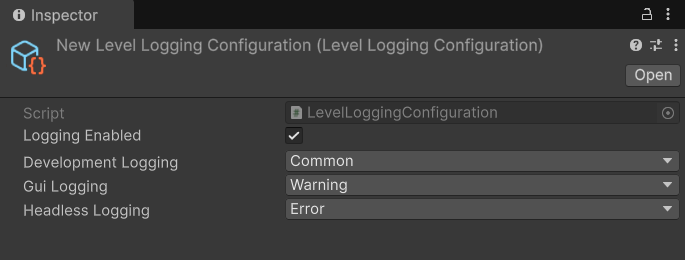
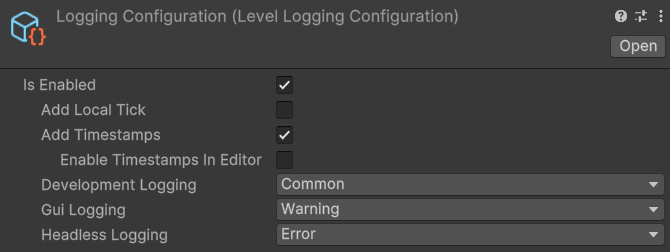
update logging level configuration

diff --git a/fishnet-building-blocks/scriptableobjects/levelloggingconfiguration.md b/fishnet-building-blocks/scriptableobjects/levelloggingconfiguration.md
@@ -14,9 +14,21 @@ The **Level Logging Configuration** scriptable object simply allows you to custo
 
 <figure><img src="../../.gitbook/assets/level-logging-configuration.png" alt=""><figcaption><p>Default Settings</p></figcaption></figure>
 
-### :gear: **Logging Enabled**
+### :gear: **Is Enabled**
 
 > This is simply a toggle to enable and disable all of Fish-Networking's logs.
+
+### :gear: Add Local Tick
+
+> This option allows you to prepend the network's local tick when log was made onto the log message. This can be quite handy for precise debugging.
+
+### :gear: **Add Timestamps**
+
+> This allows you to prepend to all logs the local date and time when the log was made.
+
+### :gear: Enable Timestamps In Editor
+
+> Since Unity's console already includes the time that logs are sent at, it can be handy to hide FishNet's Timestamps in the editor and only display them in builds.
 
 ### :gear: **Development Logging**
 
